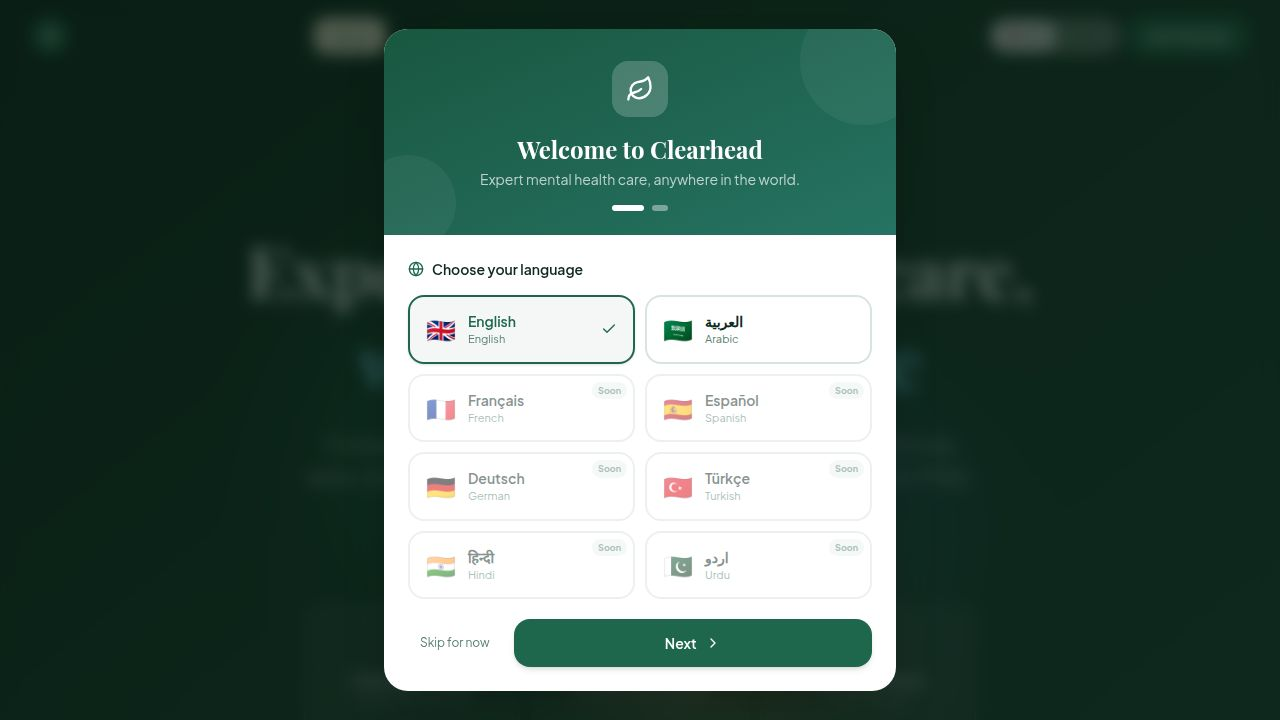
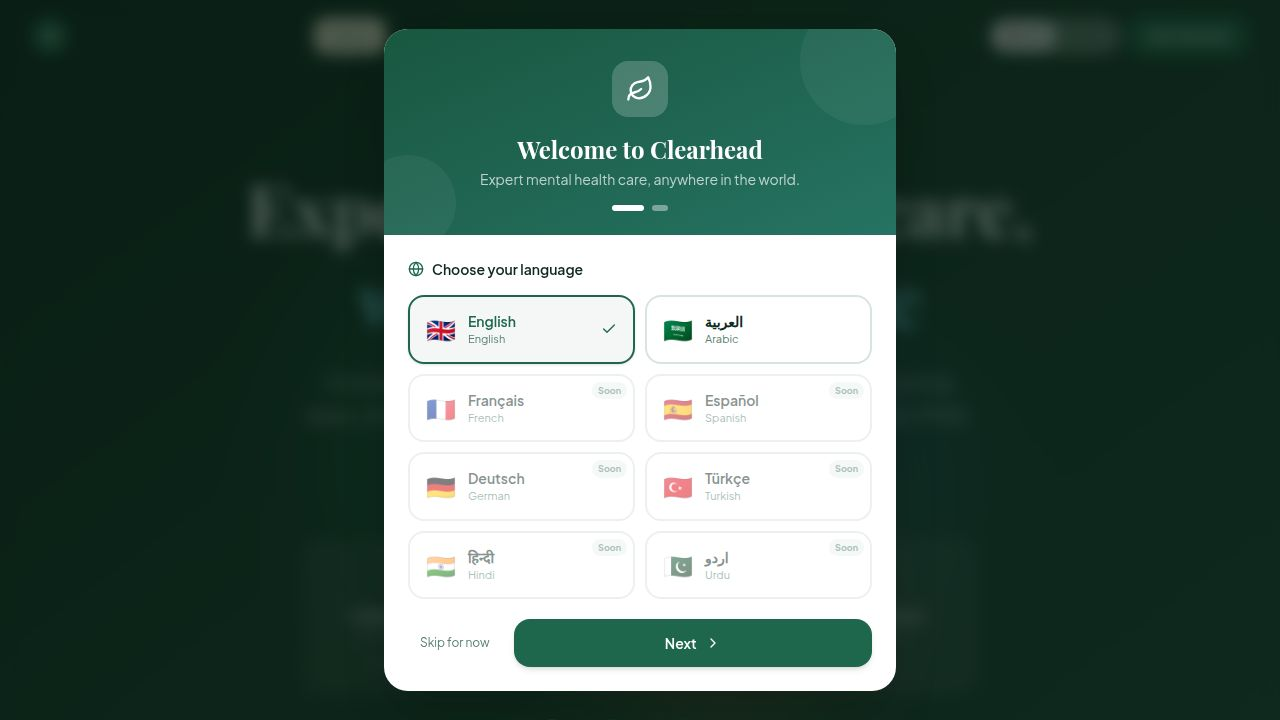
Update booking process to navigate to checkout and pre-fill details
Modify BookingJourney.tsx to navigate to the checkout page with pre-filled URL parameters. Update Checkout.tsx to read and utilize these parameters for form initialization, including patient details and promo codes. Also, fix WhatsApp number format in both files and remove a duplicate language switcher from the landing page.

Replit-Commit-Author: Agent
Replit-Commit-Session-Id: b2e0e60c-91de-43cd-873b-7be7fbf0120d
Replit-Commit-Checkpoint-Type: full_checkpoint
Replit-Commit-Event-Id: 774af743-1f58-4fe1-8ba4-00546fdd87c9
Replit-Commit-Screenshot-Url: https://storage.googleapis.com/screenshot-production-us-central1/3223cad8-17c0-4b4b-bf51-b22c1bf4d83e/b2e0e60c-91de-43cd-873b-7be7fbf0120d/7VBw0ZM
Replit-Helium-Checkpoint-Created: true

Changed region(s): [[0.1875, 0.2444, 0.3125, 0.4278], [0.6875, 0.3667, 0.7812, 0.4278], [0.6875, 0.275, 0.7812, 0.3361]]

diff --git a/artifacts/mindbridge/src/pages/Checkout.tsx b/artifacts/mindbridge/src/pages/Checkout.tsx
@@ -39,7 +39,7 @@ const TIME_SLOTS = [
 const DAY_NAMES   = ["Sun","Mon","Tue","Wed","Thu","Fri","Sat"];
 const MONTH_NAMES = ["January","February","March","April","May","June","July","August","September","October","November","December"];
 
-const ADMIN_WHATSAPP = "00962770403270";
+const ADMIN_WHATSAPP = "962770403270";
 const ADMIN_EMAIL    = "[email redacted]";
 
 type PayMethod = "credit" | "zain" | "orange" | "cliq";
@@ -249,29 +249,39 @@ export default function Checkout() {
   const search = useSearch();
   const [, navigate] = useLocation();
   const params = new URLSearchParams(search);
+
+  /* URL params — populated by BookingJourney when navigating here */
   const providerId      = parseInt(params.get("provider") || "1");
   const initialDuration = parseInt(params.get("duration") || "60");
+  const initialDate     = params.get("date")  || "";
+  const initialTime     = params.get("time")  || "";
+  const initialName     = params.get("name")  || "";
+  const initialPhone    = params.get("phone") || "";
+  const initialEmail    = params.get("email") || "";
+  const initialPromo    = params.get("promo") || "";
+  const initialPid      = params.get("pid")   || "";
 
   const { country } = useCountry();
   const { t, dir }  = useLang();
   const tc          = t.checkout;
   const { data: provider } = useGetProvider(providerId, { query: { enabled: !!providerId } });
 
-  /* Stable patient ID for this session */
-  const patientIdRef = useRef(generatePatientId());
+  /* Stable patient ID — reuse journey ID if provided */
+  const patientIdRef = useRef(initialPid || generatePatientId());
   const patientId    = patientIdRef.current;
 
   const [duration,      setDuration]      = useState(initialDuration);
-  const [date,          setDate]          = useState("");
-  const [time,          setTime]          = useState("");
+  const [date,          setDate]          = useState(initialDate);
+  const [time,          setTime]          = useState(initialTime);
   const [bookedSlots,   setBookedSlots]   = useState<string[]>([]);
   const [slotsLoading,  setSlotsLoading]  = useState(false);
 
-  const [patientName,   setPatientName]   = useState("");
-  const [patientEmail,  setPatientEmail]  = useState("");
-  const [patientPhone,  setPatientPhone]  = useState("");
+  /* Pre-fill patient details from journey */
+  const [patientName,   setPatientName]   = useState(initialName);
+  const [patientEmail,  setPatientEmail]  = useState(initialEmail);
+  const [patientPhone,  setPatientPhone]  = useState(initialPhone);
 
-  const [promoInput,    setPromoInput]    = useState("");
+  const [promoInput,    setPromoInput]    = useState(initialPromo);
   const [appliedCode,   setAppliedCode]   = useState<{code:string;discount:number}|null>(null);
   const [promoError,    setPromoError]    = useState("");
   const [acceptTerms,   setAcceptTerms]   = useState(false);
@@ -293,14 +303,27 @@ export default function Checkout() {
   /* Validation */
   const [showErrors, setShowErrors] = useState(false);
 
+  /* Auto-apply promo from journey */
+  useEffect(() => {
+    if (!initialPromo) return;
+    const disc = PROMO_CODES[initialPromo.toUpperCase()];
+    if (disc) setAppliedCode({ code: initialPromo.toUpperCase(), discount: disc });
+  }, []);
+
   const basePrice  = provider?.sessionPrice ?? 50;
   const { usd, local } = getSessionPrice(basePrice, duration, country);
   const discountAmt = appliedCode ? Math.round(local * appliedCode.discount) : 0;
   const total       = local - discountAmt;
 
+  /* Track whether the initial time came from the journey (don't clear it on first load) */
+  const prefilledTimeRef = useRef(initialTime);
+
   useEffect(()=>{
     if (!date || !providerId) return;
-    setSlotsLoading(true); setTime("");
+    setSlotsLoading(true);
+    /* Only clear the time picker if it wasn't pre-filled from the journey */
+    if (!prefilledTimeRef.current) setTime("");
+    else prefilledTimeRef.current = "";
     fetchBookedSlots(providerId, date).then(slots=>{
       setBookedSlots(slots); setSlotsLoading(false);
     });

diff --git a/artifacts/mindbridge/src/pages/BookingJourney.tsx b/artifacts/mindbridge/src/pages/BookingJourney.tsx
@@ -497,9 +497,28 @@ export default function BookingJourney() {
     else{setPromo(null);setPromoErr(j.invalidPromo);}
   };
 
-  const ADMIN_WA = "00962770403270";
+  const ADMIN_WA = "962770403270";
 
-  /* Book */
+  /* Go to Checkout with all collected journey data pre-filled */
+  const goToCheckout = useCallback(() => {
+    if (!provider || !date || !time) return;
+    const p = new URLSearchParams({
+      provider: String(provider.id),
+      date,
+      time,
+      duration: String(duration),
+      name: `${firstName} ${lastName}`.trim(),
+      phone: contactMethod === "whatsapp" ? contactDetail : "",
+      email: contactMethod === "email" ? contactDetail : "",
+      country: nationality,
+      pid: patientId,
+      careType,
+      ...(promo ? { promo: promo.code } : {}),
+    });
+    navigate(`/checkout?${p.toString()}`);
+  }, [provider, date, time, duration, firstName, lastName, contactMethod, contactDetail, nationality, patientId, careType, promo, navigate]);
+
+  /* handleBook kept for legacy/direct use (no longer called from the journey UI) */
   const handleBook = async () => {
     if(!provider||!date||!time)return;
     setLoading(true); setBookErr("");
@@ -1202,7 +1221,7 @@ export default function BookingJourney() {
               if(phase===3&&step===1)  return !!duration;
               if(phase===3&&step===2)  return !!date;
               if(phase===3&&step===3)  return !!time;
-              if(phase===3&&step===4)  return acceptTerms && !loading;
+              if(phase===3&&step===4)  return acceptTerms;
               return false;
             })();
 
@@ -1215,14 +1234,14 @@ export default function BookingJourney() {
               if(phase===1&&step===1)  return j.continueToPrefs;
               if(phase===2&&step===0)  return j.findProvider;
               if(phase===3&&step===3)  return j.reviewBookingBtn;
-              if(isBookStep)           return loading ? "…" : j.confirmBookBtn ?? "Confirm & Book";
+              if(isBookStep)           return j.proceedToPayment ?? "Proceed to Payment →";
               return j.continueBtn;
             })();
 
             return (
               <button
                 onClick={()=>{
-                  if(isBookStep){ handleBook(); return; }
+                  if(isBookStep){ goToCheckout(); return; }
                   if(phase===1&&step===0){
                     if(!firstName.trim()||!lastName.trim()){ setShowNameErrors(true); return; }
                     setShowNameErrors(false);
@@ -1233,9 +1252,7 @@ export default function BookingJourney() {
                 disabled={!canContinue}
                 className={`flex-1 flex items-center justify-center gap-2 py-3 rounded-xl font-semibold text-sm transition-all
                   ${canContinue?"bg-primary text-white hover:opacity-90 hover:-translate-y-0.5 shadow-md":"bg-muted text-muted-foreground cursor-not-allowed"}`}>
-                {loading&&isBookStep
-                  ? <span className="w-4 h-4 border-2 border-white/30 border-t-white rounded-full animate-spin"/>
-                  : null}
+                {null}
                 {label} {canContinue&&!isBookStep&&<ArrowRight className="w-4 h-4"/>}
               </button>
             );

diff --git a/artifacts/mindbridge/src/pages/Landing.tsx b/artifacts/mindbridge/src/pages/Landing.tsx
@@ -51,19 +51,6 @@ export default function Landing() {
               <span className="w-2 h-2 rounded-full bg-green-400 animate-pulse" />
               {l.heroAvailable}
             </span>
-            {/* Language switcher */}
-            <div className="inline-flex items-center gap-1 p-1 rounded-2xl bg-white/10 border border-white/15 backdrop-blur-sm">
-              {([ { code: "en", flag: "🇬🇧", label: "English" }, { code: "ar", flag: "🇸🇦", label: "العربية" } ] as { code: Lang; flag: string; label: string }[]).map(opt => (
-                <button key={opt.code} onClick={() => setLang(opt.code)}
-                  className={`flex items-center gap-2 px-4 py-2 rounded-xl text-sm font-semibold transition-all duration-200
-                    ${lang === opt.code
-                      ? "bg-white text-[hsl(158,55%,20%)] shadow-sm"
-                      : "text-white/70 hover:text-white hover:bg-white/10"}`}>
-                  <span className="text-base leading-none">{opt.flag}</span>
-                  <span dir={opt.code === "ar" ? "rtl" : "ltr"}>{opt.label}</span>
-                </button>
-              ))}
-            </div>
           </motion.div>
           <motion.h1 initial={{ opacity: 0, y: 30 }} animate={{ opacity: 1, y: 0 }} transition={{ duration: 0.8, delay: 0.1 }}
             className="font-serif text-5xl md:text-6xl lg:text-7xl font-bold text-white leading-tight mb-6">